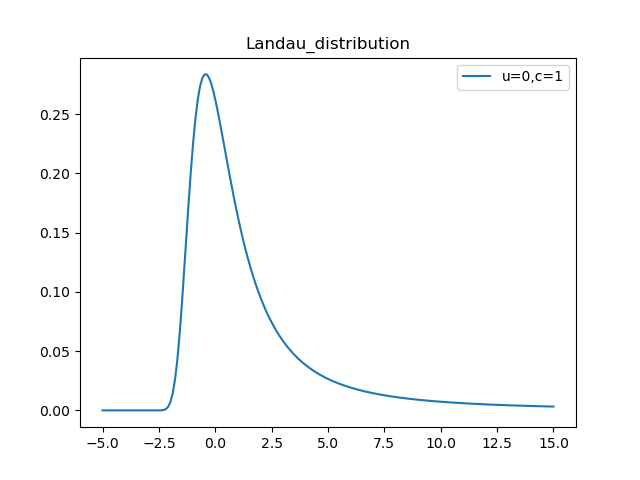
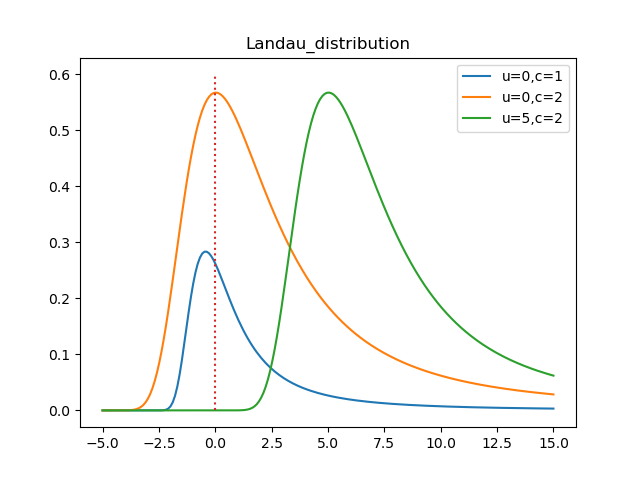
new

diff --git a/probDistribution.py b/probDistribution.py
@@ -577,13 +577,30 @@ def testF_distribution(i):
 def testLandau_distribution(i):
     ax = plt.subplot(1,1,1)
     plt.title('Landau_distribution')
-    y=[]
+    
     x = np.linspace(-5, 15, 200)
+    
+    y=[]
     for _ in x:
         y.append(Landau_distribution(_,u=0,c=1))
     
     #print('y=',y)
     plotSub(x, y, ax,label='u=0,c=1')
+    
+    y=[]
+    for _ in x:
+        y.append(Landau_distribution(_,u=0,c=2))
+    plotSub(x, y, ax,label='u=0,c=2')
+    
+    y=[]
+    for _ in x:
+        y.append(Landau_distribution(_,u=5,c=2))
+    plotSub(x, y, ax,label='u=5,c=2')
+    
+    y = np.linspace(0, 0.6, 30)
+    x = np.zeros((len(y),))
+    plotSub(x, y, ax,label='',linestyle='dotted')
+    
     plt.savefig(imgSavePath+'dsitribution{}.png'.format(i)),plt.show()
     
 def testJohnsonSU_distribution(i):
@@ -788,7 +805,7 @@ def plotAllDistributions():
 
 def main():
     #plotAllDistributions()
-    testIrwin_Hall_distribution(31)
+    testLandau_distribution(39)
     pass
 
 if __name__ == '__main__':
